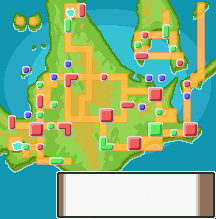
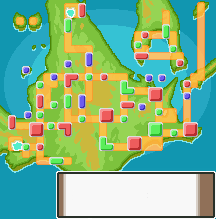
Added all locations for platinum

diff --git a/platinum.js b/platinum.js
@@ -33,6 +33,11 @@ var platinum = {
         r212_mansion:      {x: 99,  y: 136, w: 15, h: 15, scale: 1, name: "Route 212\nPokémon Mansion"       },
         route214:          {x: 155, y: 108, w: 8,  h: 8,  scale: 1, name: "Route 214"                        },
         valorlakefront:    {x: 148, y: 122, w: 15, h: 15, scale: 1, name: "Valor Lakefront\nRoute 213"       },
+        route206:          {x: 64,  y: 94,  w: 8,  h: 15, scale: 1, name: "Route 206"                        },
+        route207_route208: {x: 78,  y: 115, w: 8,  h: 8,  scale: 1, name: "Route 207\nRoute 208"             },
+        route209:          {x: 120, y: 115, w: 8,  h: 8,  scale: 1, name: "Route 209"                        },
+        route210_route215: {x: 120, y: 80,  w: 15, h: 15, scale: 1, name: "Route 210\nRoute 215"             },
+        route211:          {x: 85 , y: 73,  w: 8,  h: 8,  scale: 1, name: "Route 211"                        },
         route216_route217: {x: 64,  y: 18,  w: 8,  h: 15, scale: 1, name: "Route 216\nRoute 217"             },
         route221:          {x: 49,  y: 157, w: 15, h: 8,  scale: 1, name: "Route 221"                        },
         route222:          {x: 170, y: 129, w: 8,  h: 8,  scale: 1, name: "Route 222"                        },
@@ -41,14 +46,16 @@ var platinum = {
         route228:          {x: 169, y: 45,  w: 8,  h: 8,  scale: 1, name: "Route 228"                        },
         
         // Important locations
-        jubilifetv_poketch: {x: 24,  y: 111, w: 8, h: 8, scale: 1, name: "Jubilife TV\nPokétch Company" },
-        eternagalactic:     {x: 64,  y: 60,  w: 8, h: 8, scale: 1, name: "Galactic Eterna"              },
-        solaceonruins:      {x: 138, y: 103, w: 8, h: 8, scale: 1, name: "Solaceon Ruins"               },
-        departmentstore:    {x: 145, y: 74,  w: 8, h: 8, scale: 1, name: "Department Store"             },
-        galactichq:         {x: 158, y: 74,  w: 8, h: 8, scale: 1, name: "Team Galactic HQ"             },
-        ironisland:         {x: 22,  y: 66,  w: 8, h: 8, scale: 1, name: "Iron Island"                  },
-        victoryroad:        {x: 183, y: 92,  w: 8, h: 8, scale: 1, name: "Victory Road"                 },
-        eternaforest_r205:  {x: 50,  y: 73,  w: 8, h: 8, scale: 1, name: "Eterna Forest\nRoute 205"     }
+        jubilifetv_poketch: {x: 24,  y: 111, w: 8, h: 8,  scale: 1, name: "Jubilife TV\nPokétch Company" },
+        eternagalactic:     {x: 64,  y: 60,  w: 8, h: 8,  scale: 1, name: "Galactic Eterna"              },
+        coronet:            {x: 78,  y: 94,  w: 8, h: 15, scale: 1, name: "Mt. Coronet"                  },
+        solaceonruins:      {x: 138, y: 103, w: 8, h: 8,  scale: 1, name: "Solaceon Ruins"               },
+        departmentstore:    {x: 145, y: 74,  w: 8, h: 8,  scale: 1, name: "Department Store"             },
+        galactichq:         {x: 158, y: 74,  w: 8, h: 8,  scale: 1, name: "Team Galactic HQ"             },
+        coronetsummit:      {x: 85,  y: 52,  w: 8, h: 15, scale: 1, name: "Mt. Coronet Summit"           },
+        ironisland:         {x: 22,  y: 66,  w: 8, h: 8,  scale: 1, name: "Iron Island"                  },
+        victoryroad:        {x: 183, y: 92,  w: 8, h: 8,  scale: 1, name: "Victory Road"                 },
+        eternaforest_r205:  {x: 50,  y: 73,  w: 8, h: 8,  scale: 1, name: "Eterna Forest\nRoute 205"     },
     },
 
     // Undefined fields:
